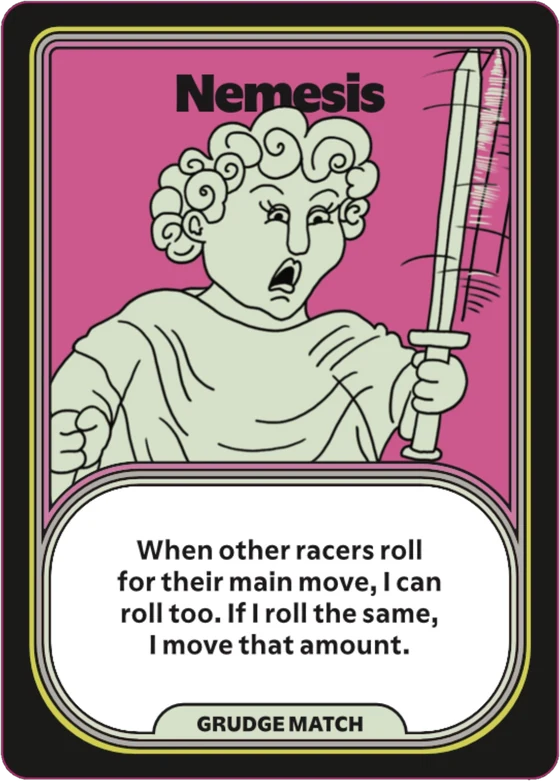
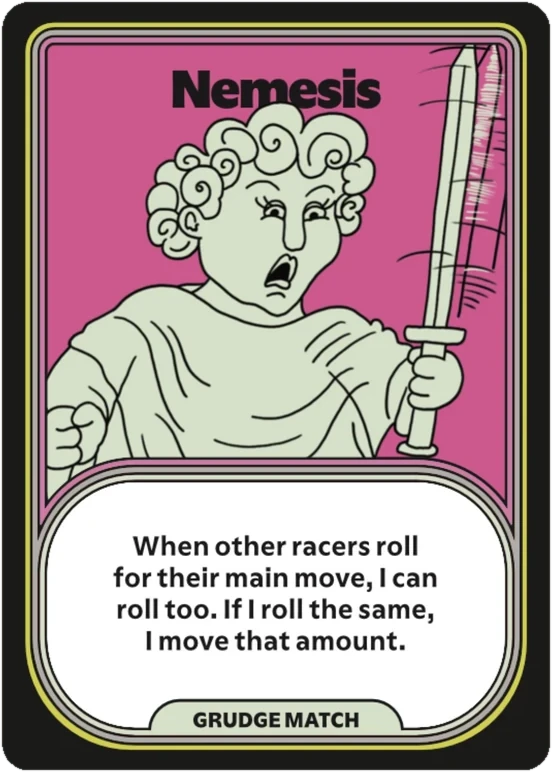
Projects: Nemesis card trimmed inside its pink cut line
Claude-Session: https://claude.ai/code/session_01X3LgmZH5haXE22BLdYX3sk

diff --git a/projects/index.html b/projects/index.html
@@ -22,7 +22,7 @@
 <link rel="preconnect" href="https://fonts.gstatic.com" crossorigin>
 <link rel="stylesheet" href="https://fonts.googleapis.com/css2?family=Bricolage+Grotesque:wght@300..800&family=Plus+Jakarta+Sans:ital,wght@0,300..800;1,300..800&family=Rampart+One&display=swap">
 <link rel="stylesheet" href="../assets/site.css?v=20261013u">
-<link rel="stylesheet" href="../assets/dir-i.css?v=20261110p">
+<link rel="stylesheet" href="../assets/dir-i.css?v=20261110q">
 <link rel="stylesheet" href="../assets/case-i.css?v=20261109a">
 <!-- the ground fetched first, so it is usually there for the first frame -->
 <link rel="preload" as="image" href="../assets/tex/moss-quiet-2k.webp" fetchpriority="high">
@@ -92,7 +92,7 @@
   <h2 class="i-label">Published</h2>
   <section class="i-row g-grid">
           <article class="card lay g-card g1 g-pitch"><div class="cf"><h3>The Daily Weather</h3><div class="c-art art-dw"><img class="wallet" src="../assets/img/dw-wallet.webp" alt="The Daily Weather in its wallet"></div><dl class="g-facts"><div><dt>Players</dt><dd>1</dd></div><div><dt>Time</dt><dd>10 min / day</dd></div><div><dt>Audience</dt><dd>Casual</dd></div><div><dt>Style</dt><dd>Morning puzzle</dd></div><div><dt>Status</dt><dd>Published</dd></div><div><dt>More</dt><dd><a href="../work/daily-weather/">Case study</a></dd></div></dl><p class="c-text">A pocket-sized 18-card game with 7 years of unique puzzles. You can buy it now from <a href="https://buttonshygames.com/">Button Shy</a> for $15.</p><blockquote class="s-quote q-in"><p>“The Daily Weather is going to be a beloved addition to your collection.”</p><cite><a href="https://whatsericplaying.com/2026/02/09/the-daily-weather/">What’s Eric Playing?</a></cite></blockquote><blockquote class="s-quote q-in"><p>“If you’re a fan of spatial puzzles, this one is a must-have in my opinion.”</p><cite><a href="https://yogibearanddelaware.com/2026/01/25/its-raining-men-a-preview-of-the-daily-weather/">Yogi Bear and Delaware</a></cite></blockquote></div></article>
-          <article class="card lay g-card g-pitch"><div class="cf"><h3>Magical Athlete: Second Wind</h3><div class="c-art art-ma"><img class="racer" src="../assets/img/nemesis.webp" alt="The Nemesis racer card: a curly-haired figure in a robe swinging a sword. Its power reads: When other racers roll for their main move, I can roll too. If I roll the same, I move that amount." width="560" height="781"></div><dl class="g-facts"><div><dt>Players</dt><dd>2–6</dd></div><div><dt>Time</dt><dd>30 min</dd></div><div><dt>Audience</dt><dd>Family</dd></div><div><dt>Style</dt><dd>Silly racing</dd></div><div><dt>Status</dt><dd>Published</dd></div><div><dt>More</dt><dd><a href="https://cmyk.games/secondwind">Announcement</a></dd></div></dl><p class="c-text">Magical Athlete: Second Wind is a standalone (or combine-able!) expansion to Magical Athlete. Recruit a team of absurd racers—Diva, Hog Knight, Stepdad—then just roll your die and move that many spaces. Except each racer has a deeply unfair, game breaking power.</p><p class="c-text">For Second Wind, I designed the Nemesis racer.</p></div></article>
+          <article class="card lay g-card g-pitch"><div class="cf"><h3>Magical Athlete: Second Wind</h3><div class="c-art art-ma"><img class="racer" src="../assets/img/nemesis.webp?v=2" alt="The Nemesis racer card: a curly-haired figure in a robe swinging a sword. Its power reads: When other racers roll for their main move, I can roll too. If I roll the same, I move that amount." width="552" height="772"></div><dl class="g-facts"><div><dt>Players</dt><dd>2–6</dd></div><div><dt>Time</dt><dd>30 min</dd></div><div><dt>Audience</dt><dd>Family</dd></div><div><dt>Style</dt><dd>Silly racing</dd></div><div><dt>Status</dt><dd>Published</dd></div><div><dt>More</dt><dd><a href="https://cmyk.games/secondwind">Announcement</a></dd></div></dl><p class="c-text">Magical Athlete: Second Wind is a standalone (or combine-able!) expansion to Magical Athlete. Recruit a team of absurd racers—Diva, Hog Knight, Stepdad—then just roll your die and move that many spaces. Except each racer has a deeply unfair, game breaking power.</p><p class="c-text">For Second Wind, I designed the Nemesis racer.</p></div></article>
           <article class="card lay g-card g-pitch g-rr"><div class="cf"><h3>Rainbow River</h3><div class="c-art art-rr"><img class="box" src="../assets/img/rainbow-river-box.webp" alt="The Rainbow River box: a painted river running red, green and blue from snowy mountains through a desert, with four explorers looking on from a cliff, and Ian Tarter's name under the title" width="640" height="623" loading="lazy"></div><dl class="g-facts"><div><dt>Players</dt><dd>2–4</dd></div><div><dt>Time</dt><dd>20 min</dd></div><div><dt>Audience</dt><dd>Family</dd></div><div><dt>Style</dt><dd>Casual abstract</dd></div><div><dt>Status</dt><dd>Self-Published</dd></div><div><dt>More</dt><dd><a href="https://boardgamegeek.com/boardgame/350782/rainbow-river">BGG link</a></dd></div></dl><p class="c-text">A family game where players compete for map pieces on an ever-shrinking board to build the best river.</p><p class="c-text">I funded it on Kickstarter and ran production from prototype to manufacturing.</p></div></article><div class="rr-scatter" aria-hidden="true"><div class="rr-tile lay"><img src="../assets/img/rainbow-river-tile-d.webp?v=2" alt="" width="320" height="320" loading="lazy"></div><div class="rr-tile lay"><img src="../assets/img/rainbow-river-tile-a.webp?v=2" alt="" width="320" height="320" loading="lazy"></div><div class="rr-tile lay"><img src="../assets/img/rainbow-river-tile-f.webp?v=2" alt="" width="320" height="320" loading="lazy"></div><div class="rr-tile lay"><img src="../assets/img/rainbow-river-tile-b.webp?v=2" alt="" width="320" height="320" loading="lazy"></div><div class="rr-tile lay"><img src="../assets/img/rainbow-river-tile-g.webp?v=2" alt="" width="320" height="320" loading="lazy"></div><div class="rr-tile lay"><img src="../assets/img/rainbow-river-tile-c.webp?v=2" alt="" width="320" height="320" loading="lazy"></div><div class="rr-tile lay"><img src="../assets/img/rainbow-river-tile-h.webp?v=2" alt="" width="320" height="320" loading="lazy"></div><div class="rr-tile lay"><img src="../assets/img/rainbow-river-tile-e.webp?v=2" alt="" width="320" height="320" loading="lazy"></div></div>
         </section>
   <article class="card lay g-note g-quotes"><div class="cf"><blockquote class="s-quote"><p>“The Daily Weather is going to be a beloved addition to your collection.”</p><cite><a href="https://whatsericplaying.com/2026/02/09/the-daily-weather/">What’s Eric Playing?</a></cite></blockquote><blockquote class="s-quote"><p>“If you’re a fan of spatial puzzles, this one is a must-have in my opinion.”</p><cite><a href="https://yogibearanddelaware.com/2026/01/25/its-raining-men-a-preview-of-the-daily-weather/">Yogi Bear and Delaware</a></cite></blockquote></div></article>

diff --git a/assets/dir-i.css b/assets/dir-i.css
@@ -1351,9 +1351,9 @@ li.mock::before, label.mock::before, .c-pdf.mock::before, .c-now.mock::before { 
 /* Magical Athlete: the Nemesis racer card is a loose object lying on its credit sheet's top right corner, hanging over the
    top and right edges onto the moss, clear of the title and facts. It takes no room in the layout */
 .x-i .g-pitch:has(.art-ma) { position: relative; } .x-i .g-pitch:has(.art-ma) .cf { position: static; }
-.x-i .g-pitch .c-art.art-ma { position: absolute; right: -30px; top: -22px; width: 132px; aspect-ratio: 560 / 781; height: auto; margin: 0; background: none; overflow: visible; display: block; z-index: 6; pointer-events: none; }
+.x-i .g-pitch .c-art.art-ma { position: absolute; right: -30px; top: -22px; width: 132px; aspect-ratio: 552 / 772; height: auto; margin: 0; background: none; overflow: visible; display: block; z-index: 6; pointer-events: none; }
 .art-ma img.racer { display: block; width: 100%; height: auto; transform: rotate(6deg);
-  filter: drop-shadow(.4px .6px 0 #3a1a28) drop-shadow(.6px .9px 0 #2a121d) drop-shadow(3px 5px 3px rgba(6,8,2,.5)) drop-shadow(12px 18px 16px rgba(6,8,2,.35)); }
+  filter: drop-shadow(.4px .6px 0 #121210) drop-shadow(.6px .9px 0 #0a0a09) drop-shadow(3px 5px 3px rgba(6,8,2,.5)) drop-shadow(12px 18px 16px rgba(6,8,2,.35)); }
 @media (max-width: 700px) { .x-i .g-pitch .c-art.art-ma { width: 112px; right: -10px; top: -18px; } }
 /* wide screens: the card is bigger and leans the other way, so its top corner pokes up over the sheet's top edge and its lower
    half swings off the right edge, clear of the title and the facts (Ian: bigger, different angle, no text covered) */
